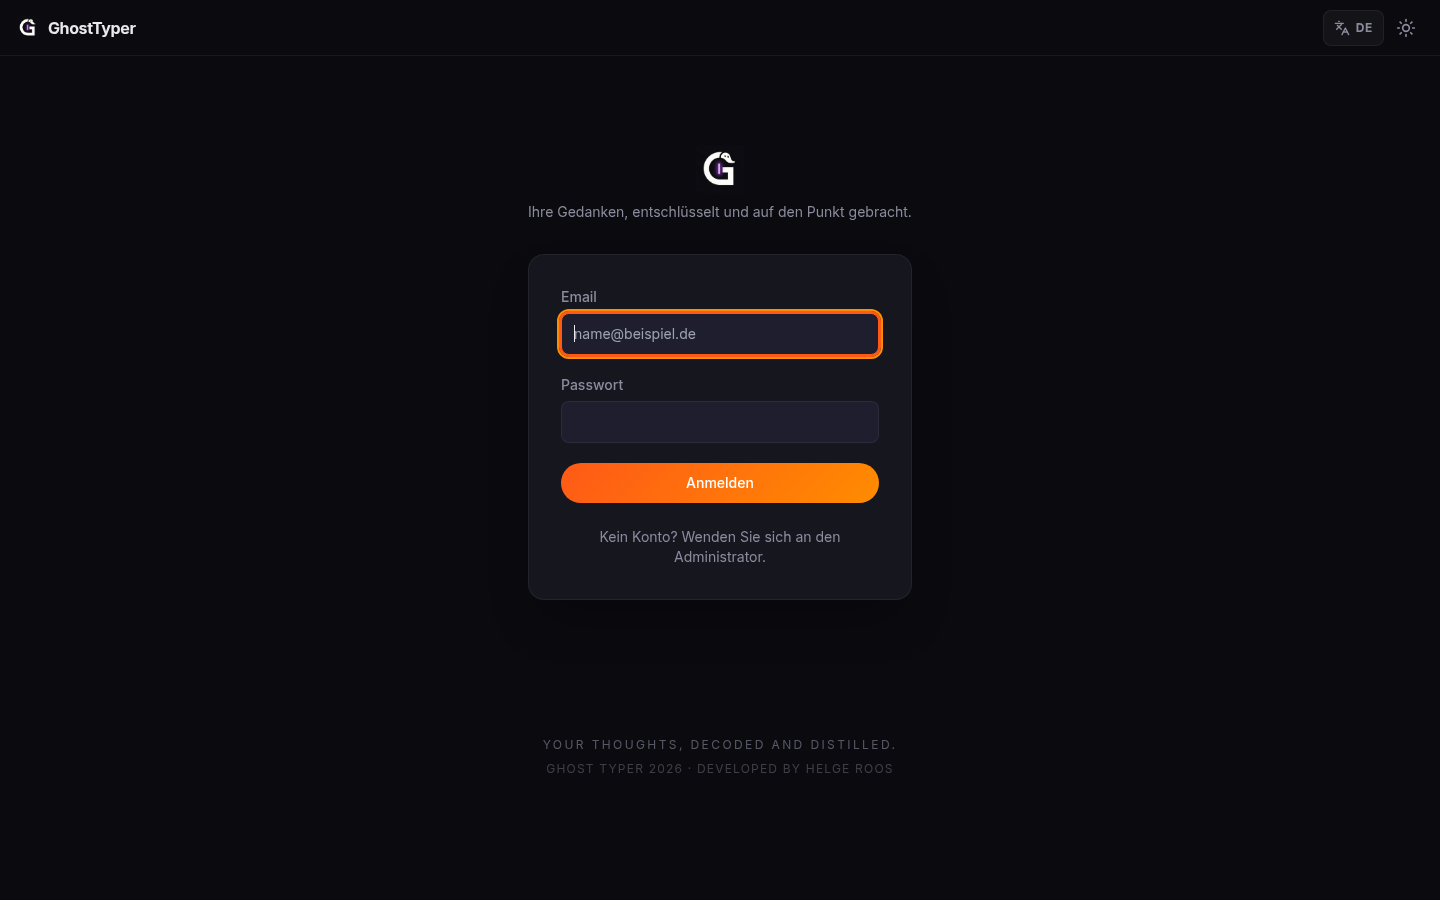
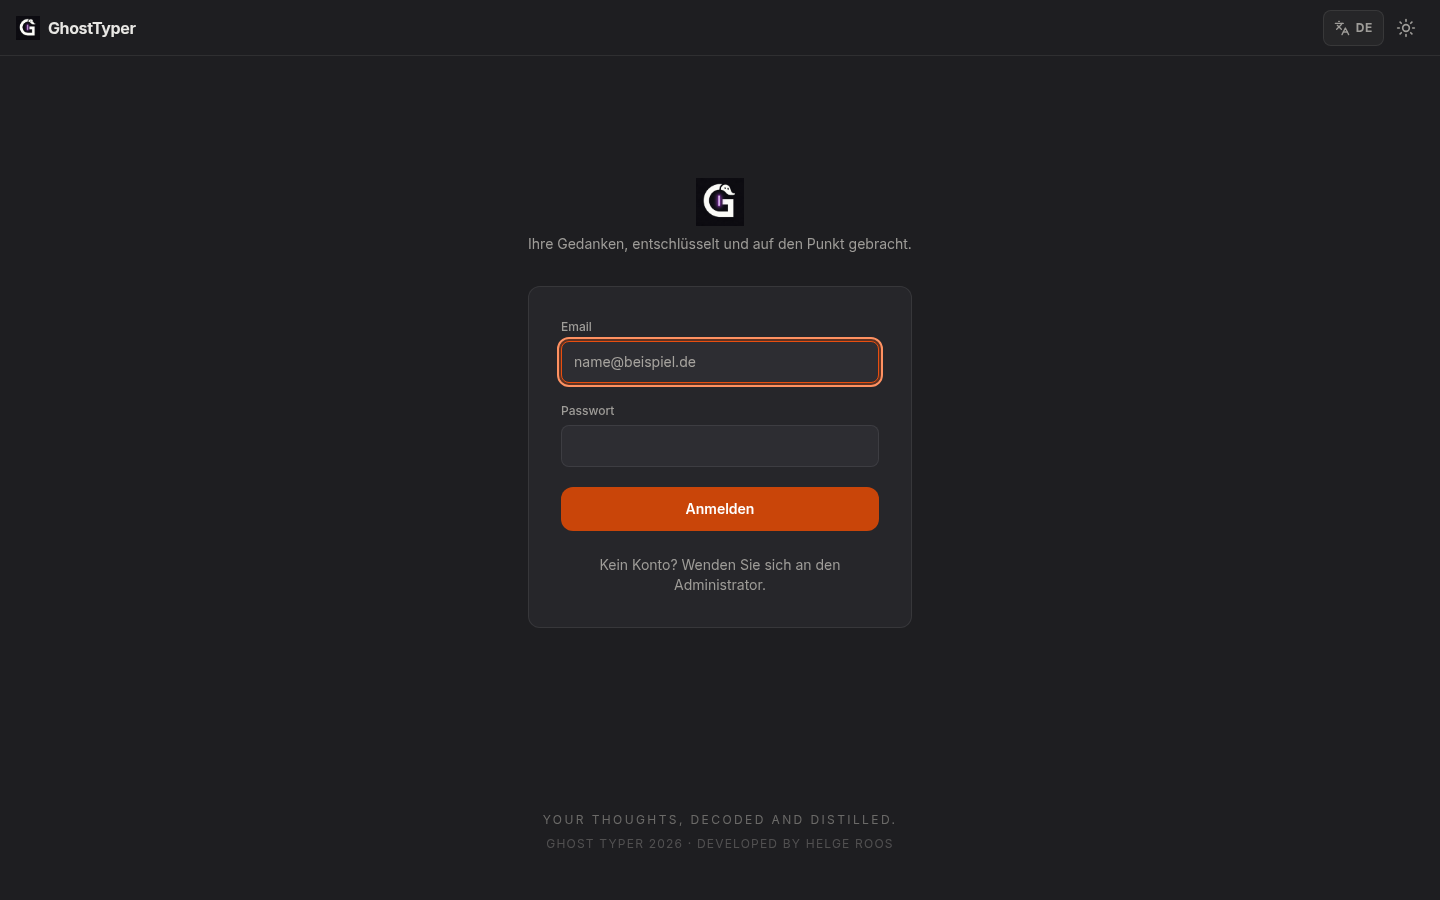
chore: archive completed changes, add bridge config DB tests, capture all README screenshots
- Archive 9 fully-completed OpenSpec changes (add-edenai-provider-foundation,
  hardcode-edenai-models, migrate-grammar-check-to-edenai,
  personal-workspace-glossary, port-bilingual-export, port-pdf-redaction,
  port-ux-polish, retire-google-meet-bot, ui-sprezzatura-refresh)
- Close migrate-live-meeting-stt-to-edenai task 6.4 with
  tests/db/bridge-transcription-config.test.mjs (real-PostgreSQL suite:
  meeting-coordinate org resolution, workspace config decryption +
  context-bias join, operator ENV fallback, disabled fallback)
- Capture and embed all 8 screenshots (1440x900, dark, German UI) from a
  seeded local instance; drop TODO markers in both READMEs and
  docs/screenshots/README.md
- Mark the DNS-offline verification in the release-readiness doc as
  verified (all outbound-guard reject paths fire before any DNS lookup)
- Scaffold openspec/changes/consolidate-esm-module-strategy for audit
  finding M-04 (ESM/CJS consolidation), including the experimentally
  identified sw-policy.js blocker

diff --git a/docs/screenshots/README.md b/docs/screenshots/README.md
@@ -1,19 +1,19 @@
 # Screenshots
 
 Screenshots used in the project README. Captured at **1440 × 900**, dark
-theme, German UI. Only `01-login.png` is currently present; all other
-stable filenames below are TODO / need capture before they are embedded.
+theme, German UI. All eight stable filenames below are present; captured
+2026-09-30 against a seeded local instance.
 
 | File | Page | Notes |
 | --- | --- | --- |
 | `01-login.png` | `/login` | Public, no auth required. |
-| `02-dashboard.png` | `/` (logged in) | TODO / needs capture. Welcome dashboard with sidebar + quick-action grid. |
-| `03-transcriptions.png` | `/transcriptions` | TODO / needs capture. History grid with at least 3 entries (audio + remote-meeting). |
-| `04-editor.png` | `/transcriptions/[id]` | TODO / needs capture. A finalised transcription with summary block and analysis. |
-| `05-table-extract.png` | `/tabellen` or `/transcriptions/[id]/table` | TODO / needs capture. Filled data table (e.g. invoice, list). |
-| `06-workspace-admin.png` | `/settings/organization/integrations` | TODO / needs capture. API keys + cost caps panel. |
-| `07-remote-meeting.png` | Remote-meeting start dialog | TODO / needs capture. Modal open, sample meeting URL in the field. |
-| `08-usage.png` | `/settings/organization/usage` | TODO / needs capture. Per-operation and per-member cost breakdown. |
+| `02-dashboard.png` | `/` (logged in) | Welcome dashboard with sidebar + quick-action grid. |
+| `03-transcriptions.png` | `/transcriptions` | History grid with seeded entries (audio + remote-meeting). |
+| `04-editor.png` | `/transcriptions/[id]` | A finalised transcription with summary block. |
+| `05-table-extract.png` | `/transcriptions/[id]/table` | Editor table view with seeded transcription. |
+| `06-workspace-admin.png` | `/settings/organization/integrations` | API keys + cost caps panel. |
+| `07-remote-meeting.png` | Remote-meeting start dialog | Modal open via `/transcriptions?meeting=1`. |
+| `08-usage.png` | `/settings/organization/usage` | Per-operation and per-member cost breakdown. |
 
 ## How to capture
 
@@ -37,4 +37,4 @@ For authenticated views, capture manually:
 4. Save under the file name in the table above, PNG, in this folder.
 
 Replace any existing file. The README should embed only files that are
-present; TODO screenshots can stay listed here as capture targets.
+present.

diff --git a/openspec/changes/consolidate-esm-module-strategy/proposal.md b/openspec/changes/consolidate-esm-module-strategy/proposal.md
@@ -1,0 +1,37 @@
+# Change: Consolidate ESM Module Strategy
+
+## Why
+
+Audit 2026-02-21 (M-04, `docs/cybersecurity-audit-2026-02-21.md`) flags the
+mixed ESM/CJS module strategy as a maintenance and tooling risk: `package.json`
+has no `"type"` field, config files use `module.exports`, and the test
+scripts carry a `--no-warnings` workaround that suppresses Node's
+`MODULE_TYPELESS_PACKAGE_JSON` warnings instead of eliminating their cause.
+The warnings reappear in every direct `node` invocation (e.g. ad-hoc DB
+seeding) and the mixed strategy will break silently as dependencies drop
+CJS support.
+
+## What Changes
+
+- Add `"type": "module"` to `package.json`.
+- Convert `next.config.js`, `postcss.config.js`, and `tailwind.config.js`
+  from `module.exports` to `export default` (and the inline
+  `require('tailwindcss-animate')` to an ESM import or string plugin entry).
+- Rework `public/sw-policy.js`'s CommonJS export so the policy stays loadable
+  both as a service-worker classic script and from
+  `tests/offline-queue.test.mjs`'s `createRequire` — the naive `"type":
+  "module"` flip breaks exactly these two tests today because
+  `module.exports` no longer attaches. Candidate: dual-register via
+  `globalThis` plus a detected-CJS guard, or switch the test to evaluate the
+  script text the same way the service worker does.
+- Remove `--no-warnings` from the `test` and `test:db` scripts once the
+  suite runs warning-free.
+- Update `docs/openspec-release-readiness-2026-06-17.md` M-04 entry to
+  "Fixed".
+
+## Impact
+
+Verified experimentally 2026-09-30 on a scratch checkout: the flip is small
+(4 config/package files) but the two `tests/offline-queue.test.mjs` failures
+must be solved first; lint warnings (2) and the full 480-test suite plus
+`npm run build` must be re-verified after conversion.

diff --git a/README.de.md b/README.de.md
@@ -36,8 +36,23 @@ Audit-Trail sind Teil der Basis.
 <details>
 <summary>Weitere Screenshots</summary>
 
-Aktuell vorhanden: `docs/screenshots/01-login.png`. Dashboard- und
-Remote-Meeting-Screenshots sind TODO / need capture, bevor sie eingebettet werden.
+<p align="center">
+  <img src="docs/screenshots/02-dashboard.png" alt="GhostTyper Dashboard" width="49%" />
+  <img src="docs/screenshots/03-transcriptions.png" alt="Transkriptions-Historie" width="49%" />
+</p>
+<p align="center">
+  <img src="docs/screenshots/04-editor.png" alt="Transkriptions-Editor mit Zusammenfassung" width="49%" />
+  <img src="docs/screenshots/05-table-extract.png" alt="Tabellen-Extraktion" width="49%" />
+</p>
+<p align="center">
+  <img src="docs/screenshots/06-workspace-admin.png" alt="Workspace-Integrationen (Admin)" width="49%" />
+  <img src="docs/screenshots/07-remote-meeting.png" alt="Remote-Meeting-Startdialog" width="49%" />
+</p>
+<p align="center">
+  <img src="docs/screenshots/08-usage.png" alt="Workspace-Nutzung und Kosten" width="49%" />
+</p>
+
+Vollständige Liste und Capture-Hinweise: [`docs/screenshots/README.md`](docs/screenshots/README.md).
 
 </details>
 

diff --git a/README.md b/README.md
@@ -35,8 +35,23 @@ audit trail are part of the baseline.
 <details>
 <summary>More screenshots</summary>
 
-Currently available: `docs/screenshots/01-login.png`. Dashboard and
-remote-meeting screenshots are TODO / need capture before they are embedded.
+<p align="center">
+  <img src="docs/screenshots/02-dashboard.png" alt="GhostTyper dashboard" width="49%" />
+  <img src="docs/screenshots/03-transcriptions.png" alt="Transcriptions history" width="49%" />
+</p>
+<p align="center">
+  <img src="docs/screenshots/04-editor.png" alt="Transcription editor with summary" width="49%" />
+  <img src="docs/screenshots/05-table-extract.png" alt="Table extraction view" width="49%" />
+</p>
+<p align="center">
+  <img src="docs/screenshots/06-workspace-admin.png" alt="Workspace integrations admin panel" width="49%" />
+  <img src="docs/screenshots/07-remote-meeting.png" alt="Remote meeting start dialog" width="49%" />
+</p>
+<p align="center">
+  <img src="docs/screenshots/08-usage.png" alt="Workspace usage and cost breakdown" width="49%" />
+</p>
+
+Full list and capture notes: [`docs/screenshots/README.md`](docs/screenshots/README.md).
 
 </details>
 

diff --git a/openspec/changes/migrate-live-meeting-stt-to-edenai/tasks.md b/openspec/changes/migrate-live-meeting-stt-to-edenai/tasks.md
@@ -137,13 +137,16 @@ original plan" rather than silently rewritten.
   (`voxtral-mini-transcribe-realtime-2602`) and nothing else, not the
   old Cortecs/legacy-model regression this test was originally guarding
   against being reintroduced.
-- [ ] 6.4 No dedicated test for `resolveBridgeTranscriptionConfig()`
+- [x] 6.4 No dedicated test for `resolveBridgeTranscriptionConfig()`
   itself (Mistral branch) — its structure requires a real database
   connection even for the "operator fallback" path (unlike
   `resolveOpenRouterConfig`/`resolveEdenAiConfig`, which short-circuit
   before any query when no organizationId is given). Flagged as a
-  pre-existing test-coverage gap this change did not introduce, not
-  fixed here.
+  pre-existing test-coverage gap this change did not introduce; now
+  closed by `tests/db/bridge-transcription-config.test.mjs` (DB-backed
+  suite, real rows: meeting-coordinate org resolution, workspace config
+  decryption + context-bias join, operator ENV fallback, disabled
+  fallback, unknown-meeting resolution).
 
 ## 7. Verification
 

diff --git a/openspec/changes/consolidate-esm-module-strategy/tasks.md b/openspec/changes/consolidate-esm-module-strategy/tasks.md
@@ -1,0 +1,15 @@
+# Tasks: Consolidate ESM Module Strategy
+
+- [ ] Add `"type": "module"` to `package.json`.
+- [ ] Convert `next.config.js` to `export default`.
+- [ ] Convert `postcss.config.js` to `export default`.
+- [ ] Convert `tailwind.config.js` to `export default` and replace the
+      inline `require('tailwindcss-animate')`.
+- [ ] Make `public/sw-policy.js` loadable under ESM-default resolution
+      without breaking classic-script service-worker usage; unskip/fix the
+      two `tests/offline-queue.test.mjs` tests.
+- [ ] Remove `--no-warnings` from `test` and `test:db` scripts.
+- [ ] Verify: `npm run lint`, `npm test`, `npm run build`, and
+      `npm run test:db` against a throwaway PostgreSQL 16 all pass
+      warning-free.
+- [ ] Update `docs/openspec-release-readiness-2026-06-17.md` M-04 entry.

diff --git a/docs/openspec-release-readiness-2026-06-17.md b/docs/openspec-release-readiness-2026-06-17.md
@@ -15,6 +15,10 @@ documentation with the implemented product surface.
   Next.js Pages Router stack.
 - Stabilise DNS-dependent unit tests so the suite runs without external network
   access.
+  Verified 2026-09-30: every outbound guard reject path (metadata host block,
+  allowlist, protocol, private IP) fires before any DNS lookup, and the full
+  suite passes without external DNS resolution (`tests/network-guard.test.mjs`
+  17/17).
 - Align versions, test counts, framework references, screenshots, and feature
   claims across README, changelog, memory, and docs.
 - Tighten CI security gates so high-severity production advisories are visible.
